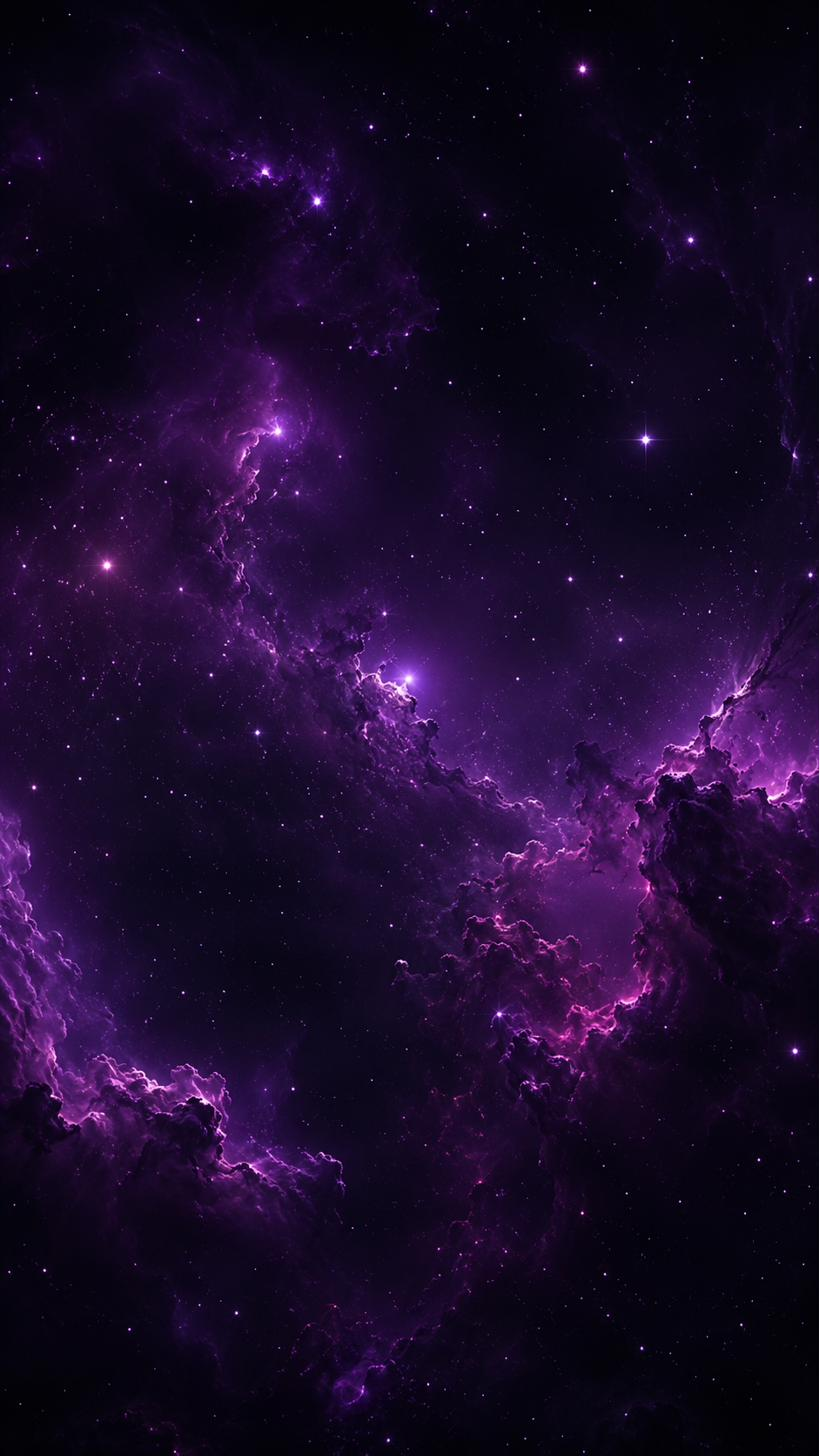
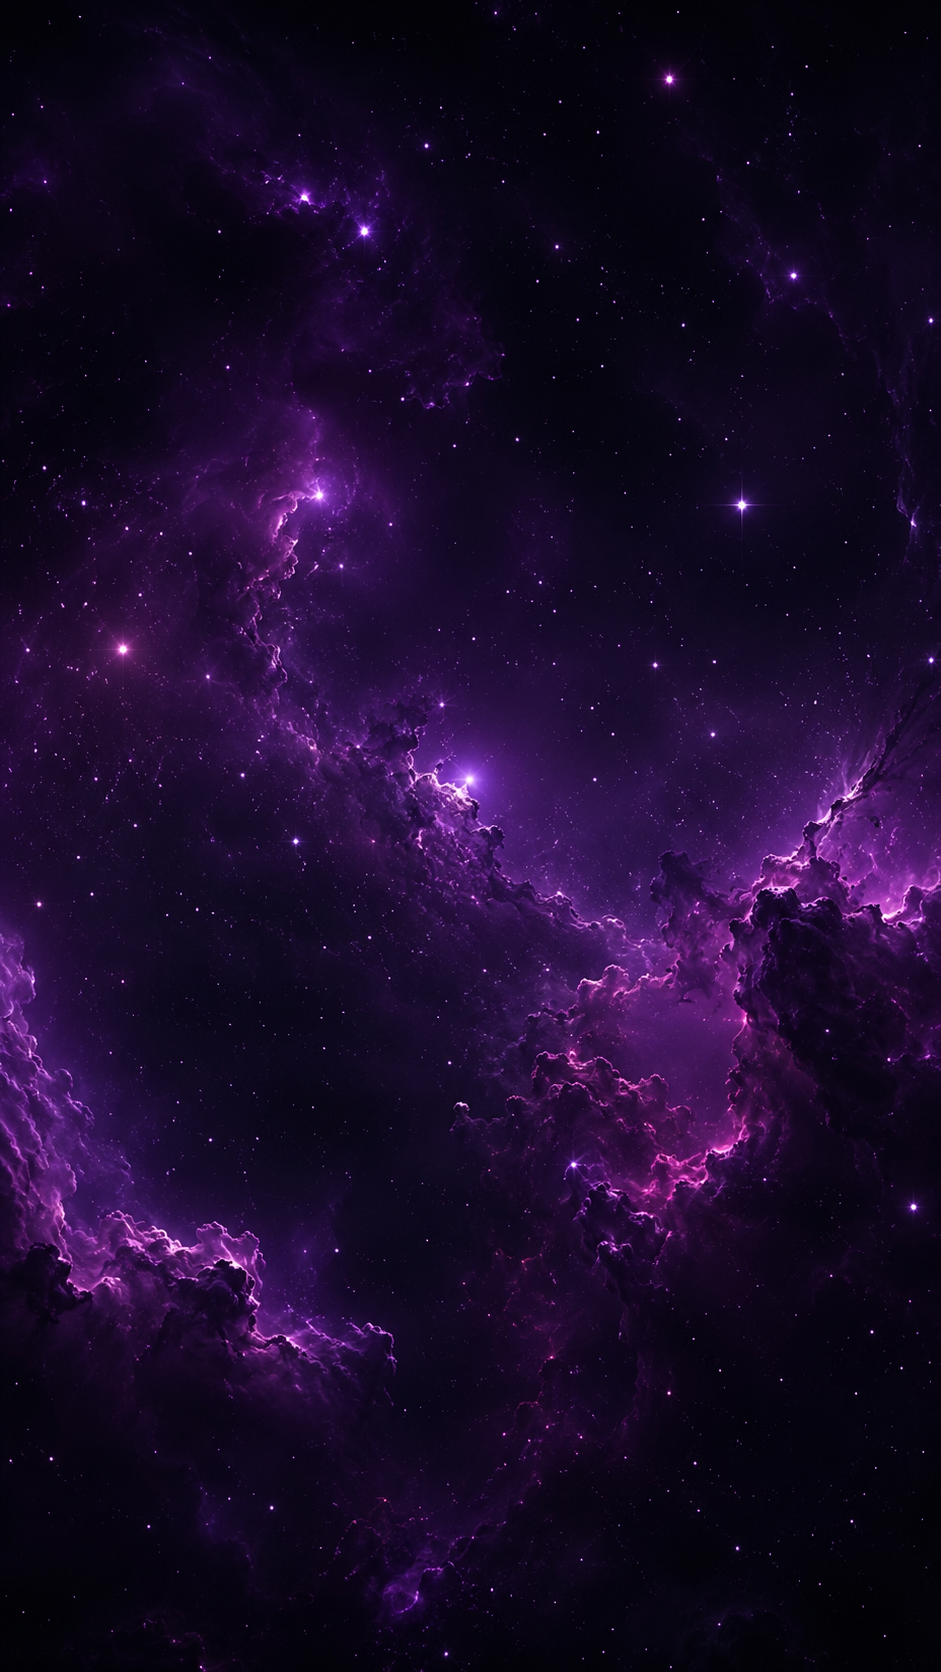
🚀 v4.0 PROPER KEY FALLBACK: 🔄 For EACH model now tries ALL live keys before moving to next model (was: only 1 key per model) — doubles throughput when both keys are live + 🌌 New cosmic background (more detailed stars + nebula) + 🐛 Fix NoneType.get crash when user uploads image after regen session ex

diff --git a/news_scout.py b/news_scout.py
@@ -548,7 +548,10 @@ def truncate_headline(text, max_len):
 
 
 def _call_gemini(prompt, body_overrides=None):
-    """Try each fallback model until one succeeds."""
+    """Try each (model, key) combination until one succeeds.
+    For each model: try ALL live keys before moving to next model.
+    This way if Key 0 is rate-limited but Key 1 works, we use Key 1 immediately.
+    """
     body = {
         "contents": [{"parts": [{"text": prompt}]}],
         "tools": [{"google_search": {}}],
@@ -564,69 +567,80 @@ def _call_gemini(prompt, body_overrides=None):
 
     last_err = None
     for idx, model in enumerate(FALLBACK_MODELS):
-        url = f"{GEMINI_API_BASE}/{model}:generateContent?key={get_current_key()}"
-        try:
-            log.info(f"🤖 Model {idx+1}/{len(FALLBACK_MODELS)}: {model}")
-            r = requests.post(url, json=body, timeout=90)
-            if r.status_code == 429:
-                log.warning(f"   ⚠  {model} rate limited (key {_KEY_INDEX[0]}), rotating key + trying next...")
-                rotate_key()
-                last_err = RuntimeError(f"{model} rate limited")
-                time.sleep(2)
-                continue
-            if r.status_code == 403:
-                # Detect leaked/blocked key vs generic 403
-                err_msg = ""
-                try:
-                    err_msg = r.json().get("error", {}).get("message", "").lower()
-                except Exception:
-                    pass
-                if "leaked" in err_msg or "api key" in err_msg or "blocked" in err_msg:
-                    log.warning(f"   💀 Key {_KEY_INDEX[0]} is LEAKED/BLOCKED by Google - marking dead")
-                    mark_key_dead(reason="leaked/blocked")
-                else:
-                    log.warning(f"   ⚠  {model} 403 (not key-related), rotating...")
-                    rotate_key()
-                last_err = RuntimeError(f"{model}: {err_msg[:80] or '403 blocked'}")
-                continue
-            if r.status_code == 404:
-                log.warning(f"   ⚠  {model} not found")
-                last_err = RuntimeError(f"{model} not found")
-                continue
-            r.raise_for_status()
-            data = r.json()
-            if "candidates" not in data or not data["candidates"]:
-                last_err = RuntimeError(f"Empty response from {model}")
-                continue
-            cand = data["candidates"][0]
-            content_obj = cand.get("content", {})
-            if not isinstance(content_obj, dict):
-                last_err = RuntimeError(f"Unexpected content type from {model}: {type(content_obj)}")
-                continue
-            parts = content_obj.get("parts", [])
-            if not isinstance(parts, list):
-                last_err = RuntimeError(f"Parts not a list from {model}")
-                continue
-            text_pieces = []
-            for p in parts:
-                if isinstance(p, dict):
-                    text_pieces.append(p.get("text", ""))
-                elif isinstance(p, str):
-                    text_pieces.append(p)
-            text = "".join(text_pieces)
-            if not text:
-                last_err = RuntimeError(f"No text from {model}")
-                continue
-            log.info(f"   ✅ {model} OK ({len(text)} chars)")
-            return extract_json(text)
-        except RuntimeError:
-            raise
-        except Exception as e:
-            last_err = e
-            log.warning(f"   {model} failed: {e}")
-            continue
+        live_keys = [k for k in GEMINI_API_KEYS if k not in _DEAD_KEYS]
+        if not live_keys:
+            log.error("💀 ALL keys are dead, cannot continue")
+            break
 
-    raise RuntimeError(f"All {len(FALLBACK_MODELS)} models exhausted. Last: {last_err}")
+        for key_attempt, key in enumerate(live_keys):
+            _KEY_INDEX[0] = GEMINI_API_KEYS.index(key)
+            url = f"{GEMINI_API_BASE}/{model}:generateContent?key={key}"
+            try:
+                log.info(f"🤖 Model {idx+1}/{len(FALLBACK_MODELS)}: {model} (key {_KEY_INDEX[0]}, attempt {key_attempt+1}/{len(live_keys)})")
+                r = requests.post(url, json=body, timeout=90)
+
+                if r.status_code == 429:
+                    log.warning(f"   ⚠  Key {_KEY_INDEX[0]} rate-limited on {model}, trying next key...")
+                    last_err = RuntimeError(f"{model} key {_KEY_INDEX[0]} rate limited")
+                    continue  # try next KEY
+
+                if r.status_code == 403:
+                    err_msg = ""
+                    try:
+                        err_msg = r.json().get("error", {}).get("message", "").lower()
+                    except Exception:
+                        pass
+                    if "leaked" in err_msg or "api key" in err_msg or "blocked" in err_msg:
+                        log.warning(f"   💀 Key {_KEY_INDEX[0]} LEAKED/BLOCKED - marking dead")
+                        mark_key_dead(reason="leaked/blocked")
+                        continue  # try next key (this one is now dead)
+                    log.warning(f"   ⚠  {model} 403 (not key-related) on key {_KEY_INDEX[0]}")
+                    last_err = RuntimeError(f"{model}: {err_msg[:80] or '403'}")
+                    continue  # try next key
+
+                if r.status_code == 404:
+                    log.warning(f"   ⚠  {model} not found, skipping to next model")
+                    last_err = RuntimeError(f"{model} not found")
+                    break  # skip to next MODEL
+
+                if r.status_code != 200:
+                    last_err = RuntimeError(f"{model} HTTP {r.status_code}")
+                    continue  # try next key
+
+                # Success path
+                data = r.json()
+                if "candidates" not in data or not data["candidates"]:
+                    last_err = RuntimeError(f"Empty candidates from {model}")
+                    continue
+                cand = data["candidates"][0]
+                content_obj = cand.get("content", {})
+                if not isinstance(content_obj, dict):
+                    last_err = RuntimeError(f"Bad content type from {model}")
+                    continue
+                parts = content_obj.get("parts", [])
+                if not isinstance(parts, list):
+                    last_err = RuntimeError(f"Parts not a list from {model}")
+                    continue
+                text_pieces = []
+                for p in parts:
+                    if isinstance(p, dict):
+                        text_pieces.append(p.get("text", ""))
+                    elif isinstance(p, str):
+                        text_pieces.append(p)
+                text = "".join(text_pieces)
+                if not text:
+                    last_err = RuntimeError(f"No text from {model}")
+                    continue
+                log.info(f"   ✅ {model} OK via key {_KEY_INDEX[0]} ({len(text)} chars)")
+                return extract_json(text)
+            except RuntimeError:
+                raise
+            except Exception as e:
+                last_err = e
+                log.warning(f"   {model} key {_KEY_INDEX[0]} exception: {str(e)[:100]}")
+                continue
+
+    raise RuntimeError(f"All {len(FALLBACK_MODELS)} models × {len(GEMINI_API_KEYS)} keys exhausted. Last: {last_err}")
 
 
 def _finalize_result(result):

diff --git a/bot.py b/bot.py
@@ -340,7 +340,7 @@ async def cmd_status(update, ctx):
         f"• الخطوط: {'✅' if fonts_exist else '❌'}\n"
         f"• Render: {RENDER_URL or 'local'}\n"
         f"• Pending: {len(PENDING_NEWS)}\n"
-        "• الإصدار: 3.9 (تدوير ذكي للمفاتيح يتعرف على المفاتيح المعطلة + التفاف العنوان الفرعي)"
+        "• الإصدار: 4.0 (لكل موديل يجرب كل المفاتيح + خلفية جديدة + حماية من NoneType)"
     )
     await update.message.reply_text(msg)
 
@@ -943,9 +943,21 @@ async def handle_regen_callback(update, ctx):
 
         elif data.startswith("regen_upload_"):
             # Ask user to upload a custom image/video
+            history_news = POST_HISTORY.get(user_id, {}).get("news")
+            if not history_news:
+                # No news in history - the session expired or was cleaned
+                try:
+                    await query.edit_message_text(
+                        "⚠ انتهت الجلسة المؤقتة.\n\n"
+                        "💡 الذاكرة تُنظّف تلقائياً بعد فترة.\n"
+                        "أرسل /post أو رابط للبدء من جديد."
+                    )
+                except: pass
+                return
+
             PENDING_NEWS[user_id] = {
                 "kind": "awaiting_custom_media",
-                "news": POST_HISTORY.get(user_id, {}).get("news"),
+                "news": history_news,
                 "chat_id": query.message.chat_id,
                 "user_id": user_id,
             }
@@ -1507,7 +1519,15 @@ async def handle_photo(update, ctx):
 
     # Case 1: User uploading custom image for pending news (either fresh or regen flow)
     if pending and (pending.get("awaiting_image") or pending.get("kind") == "awaiting_custom_media"):
-        news = pending["news"]
+        news = pending.get("news")
+        if not news or not isinstance(news, dict):
+            # Defensive: news lost somehow → ask user to start over
+            await update.message.reply_text(
+                "⚠ انتهت الجلسة - فُقدت بيانات المنشور.\n"
+                "أرسل /post أو رابط للبدء من جديد."
+            )
+            PENDING_NEWS.pop(user_id, None)
+            return
         progress = await update.message.reply_text(
             "📸 *تم استلام صورتك! جاري التصميم...*",
             parse_mode="Markdown"
@@ -1651,7 +1671,14 @@ async def handle_video(update, ctx):
 
     # Case 1: User uploading custom video for pending news (fresh or regen)
     if pending and (pending.get("awaiting_image") or pending.get("kind") == "awaiting_custom_media"):
-        news = pending["news"]
+        news = pending.get("news")
+        if not news or not isinstance(news, dict):
+            await update.message.reply_text(
+                "⚠ انتهت الجلسة - فُقدت بيانات المنشور.\n"
+                "أرسل /post أو رابط للبدء من جديد."
+            )
+            PENDING_NEWS.pop(user_id, None)
+            return
 
         # 🎯 Validate video constraints BEFORE downloading
         file_obj = video or document
@@ -1919,7 +1946,7 @@ async def error_handler(update, ctx):
 
 
 def main():
-    logger.info("🤖 Starting 4Ever Bot v3.9 (SMART-KEY-ROTATION+SUBTITLE-WRAP+EXPORT-PRESETS)...")
+    logger.info("🤖 Starting 4Ever Bot v4.0 (PROPER-KEY-FALLBACK+NEW-BG+NULL-NEWS-GUARD)...")
     app = Application.builder().token(TELEGRAM_TOKEN).build()
 
     app.add_handler(CommandHandler("start", cmd_start))
